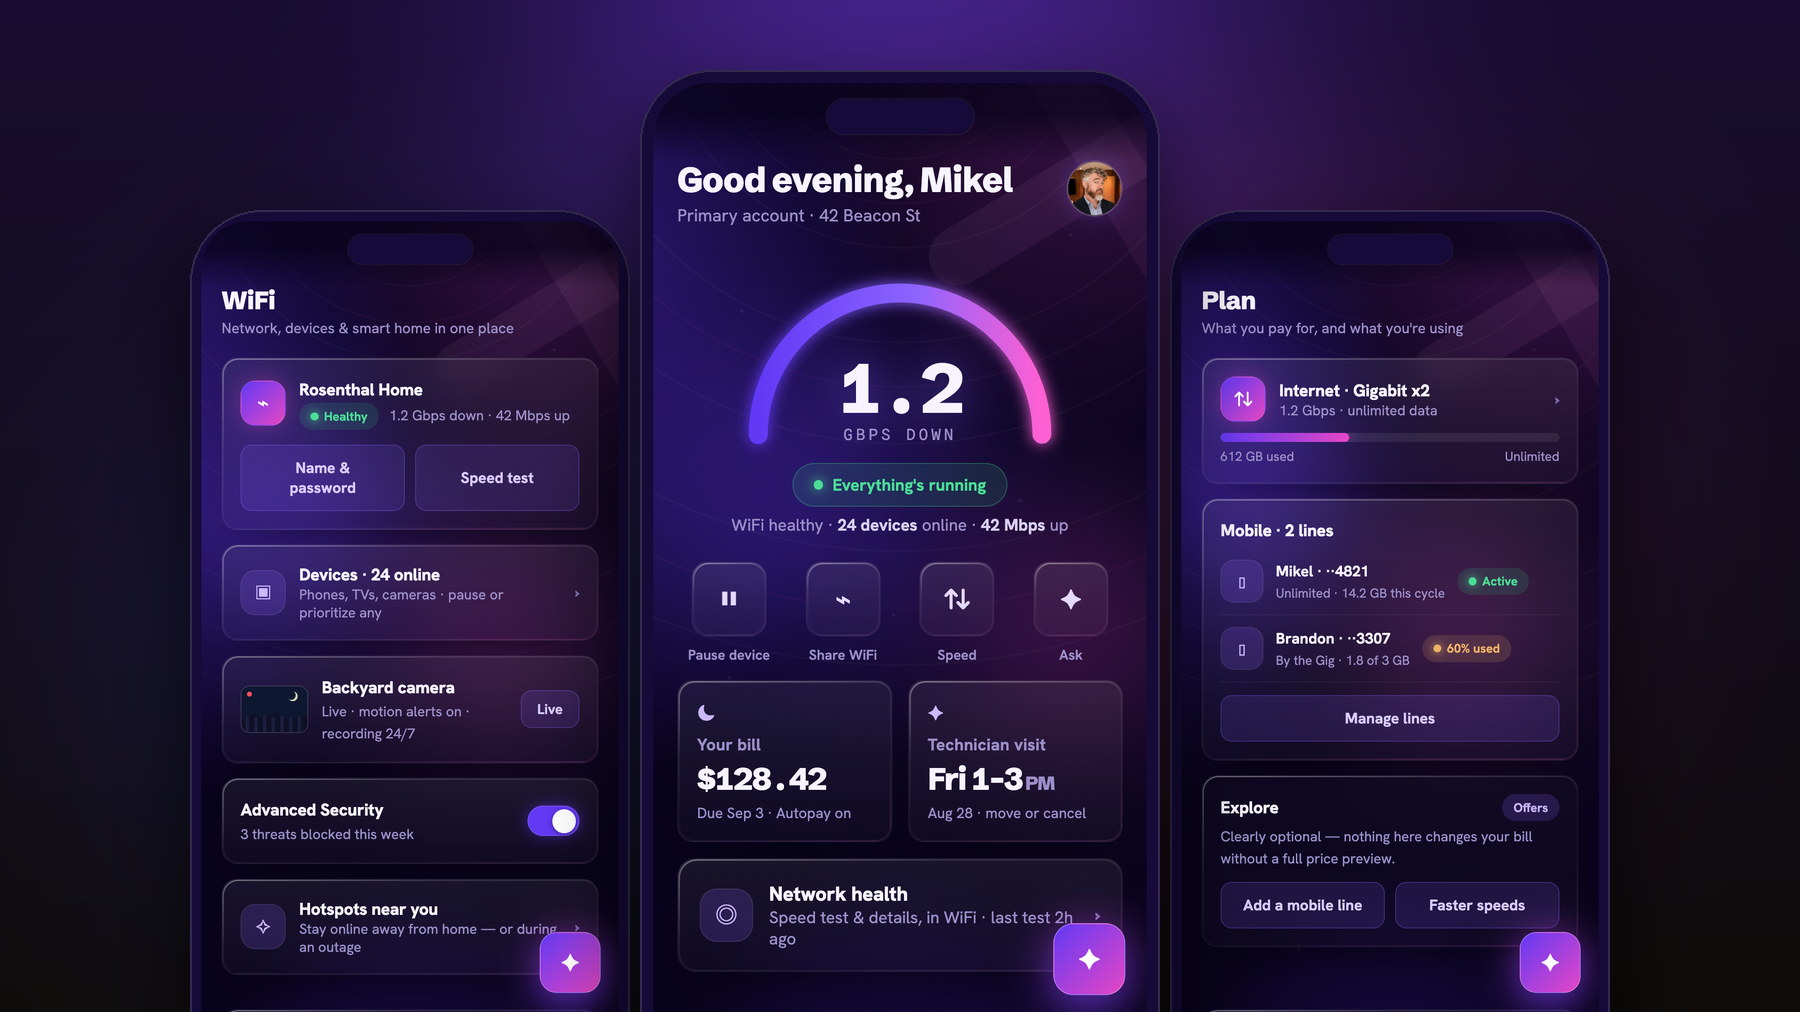
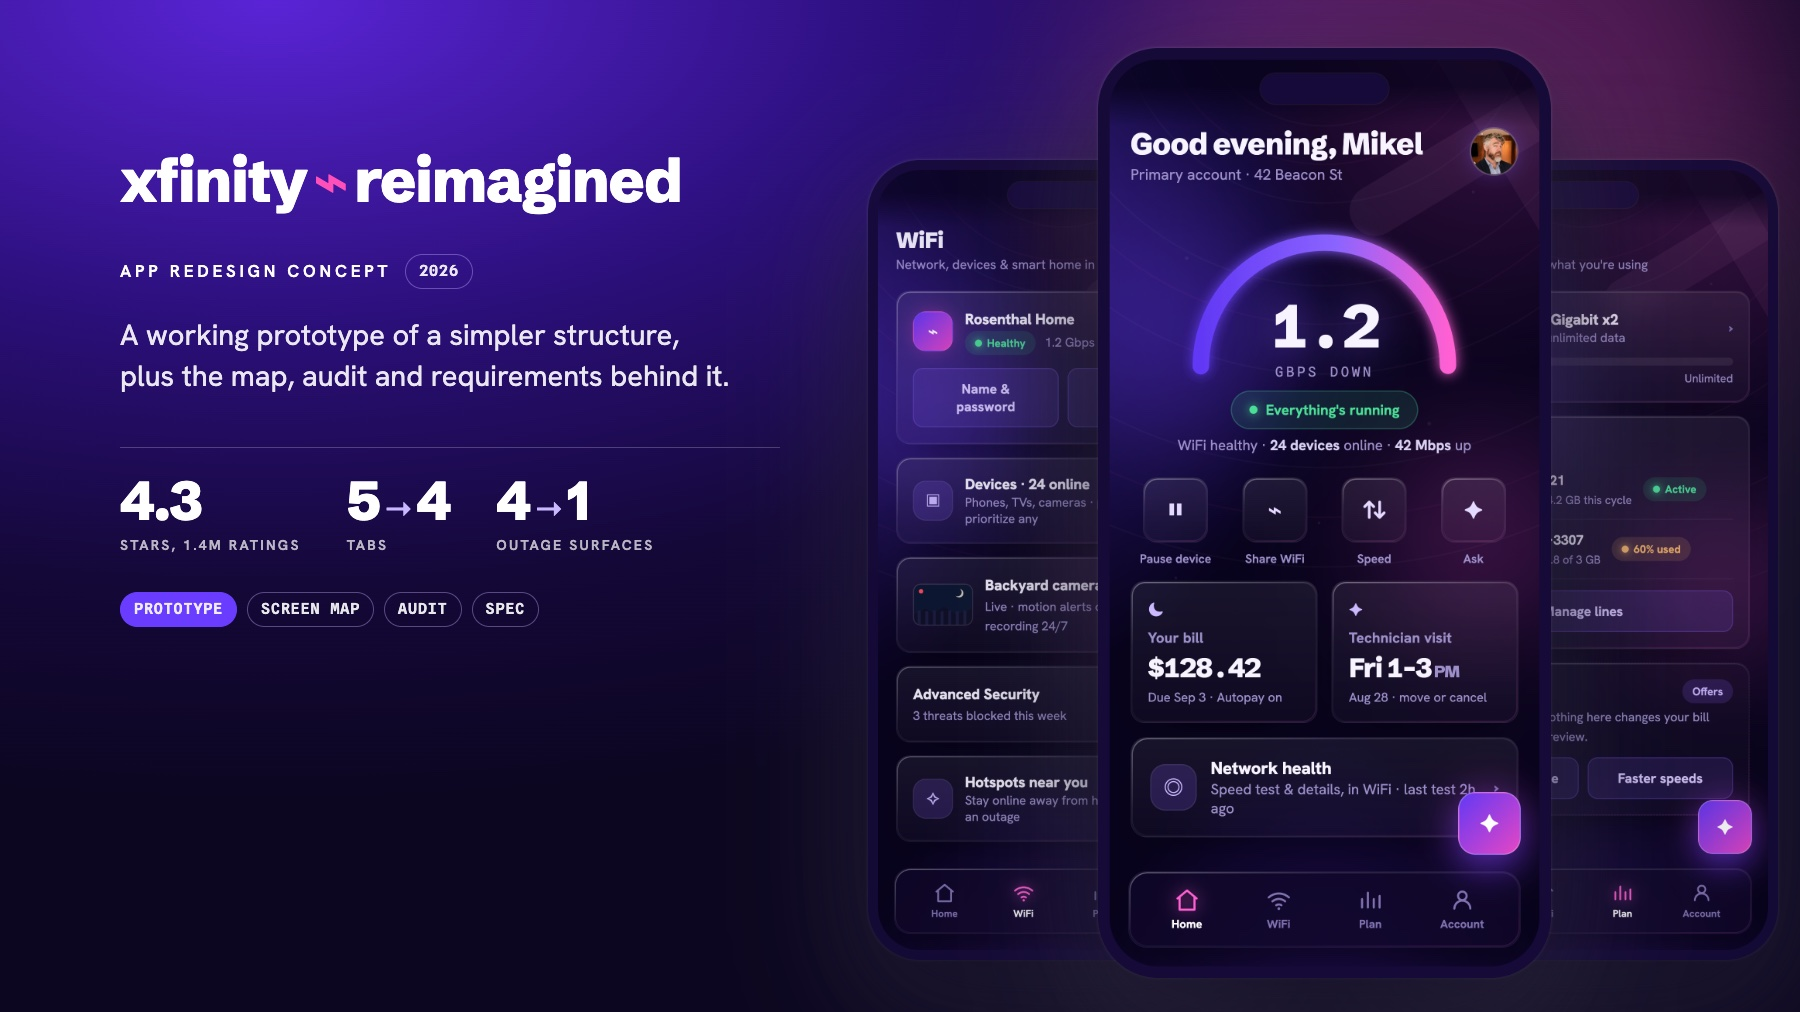
Home: Xfinity card gets a NorthStar-style board with floating phones

diff --git a/index.html b/index.html
@@ -834,7 +834,7 @@ body.cf-lock{overflow:hidden}
       <figcaption class="sys-cap"><b>NorthStar <em>DS</em></b><span>Live design system · Figma to code · v1.5.0 · 2026<br><span class="cta">Case study →</span></span></figcaption>
     </figure>
     <figure class="sys-card reveal" data-href="https://xfinity-reimagined.vercel.app" tabindex="0" role="link" aria-label="Open the Xfinity Reimagined concept (opens in a new tab)">
-      <div class="frame"><img src="ASSETS/design-systems/board-xfinity.jpg" alt="Xfinity Reimagined concept, 2026: WiFi, Home and Plan screens of the app redesign, with connection status first" loading="lazy" width="1800" height="1012"></div>
+      <div class="frame"><img src="ASSETS/design-systems/board-xfinity.jpg?v=2" alt="Xfinity Reimagined app redesign concept, 2026: 4.3 stars across 1.4M ratings, five tabs to four and four outage surfaces to one, beside the WiFi, Home and Plan screens" loading="lazy" width="1800" height="1012"></div>
       <figcaption class="sys-cap"><b>Xfinity <em>Reimagined</em></b><span>App Redesign Concept · 2026<br><span class="cta">Open the live concept ↗</span></span></figcaption>
     </figure>
     <figure class="sys-card reveal" data-href="pathfinder.html" tabindex="0" role="link" aria-label="Open the Pathfinder case study">
